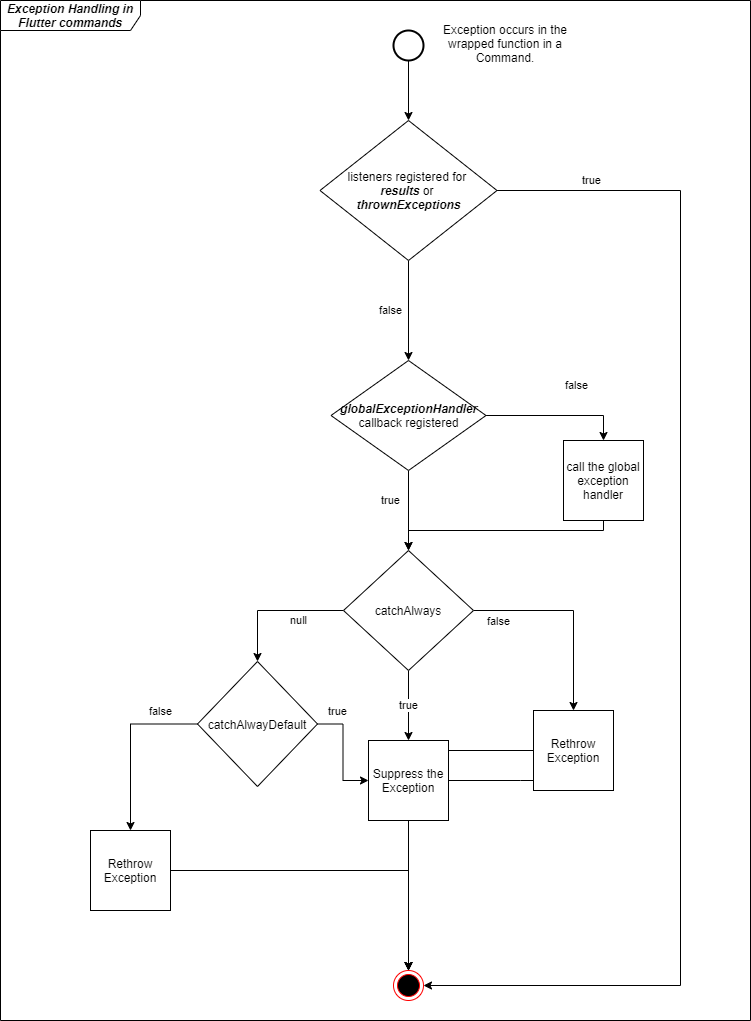
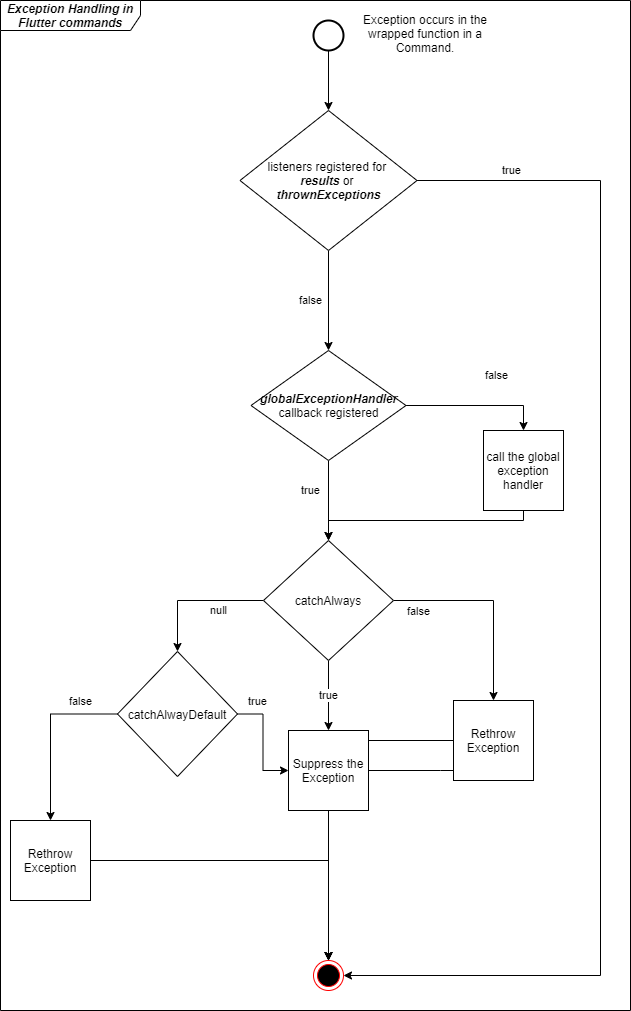
Added the exception handling logic to readme.

diff --git a/README.md b/README.md
@@ -268,9 +268,15 @@ You can tweak the behaviour of the error handling by passing a `catchAlways` par
 `Command` also offers a static global Exception handler:
 
 ```Dart
-static void Function(CommandError<Object>) globalExeptionHandler;
+static void Function(CommandError<Object>) globalExceptionHandler;
 ```
-If you assign a handler function to it, it will be called for all Exceptions thrown by any `Command` in your app independent of the value of `catchAlways` if the `Command` has no listeners on `thrownExceptions` or on `results`. 
+If you assign a handler function to it, it will be called for all Exceptions thrown by any `Command` in your app independent of the value of `catchAlways` if the `Command` has no listeners on `thrownExceptions` or on `results`.
+
+The overall work flow of exception handling in flutter_command is depicted in the following diagram.
+
+<!-- just to keep the image scale correctly in small screens -->
+<img src="misc/exception_handling.png" alt="Exception Handling" max-width="100%" height="auto">
+
 
 ## Getting all data at once
 `isExecuting` and `thrownExceptions` are great properties but what if you don't want to use separate `ValueListenableBuilders` for each of them plus one for the data?
